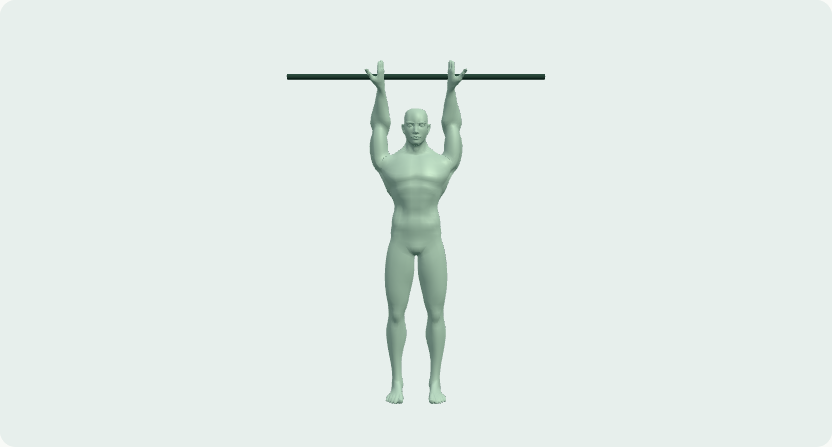
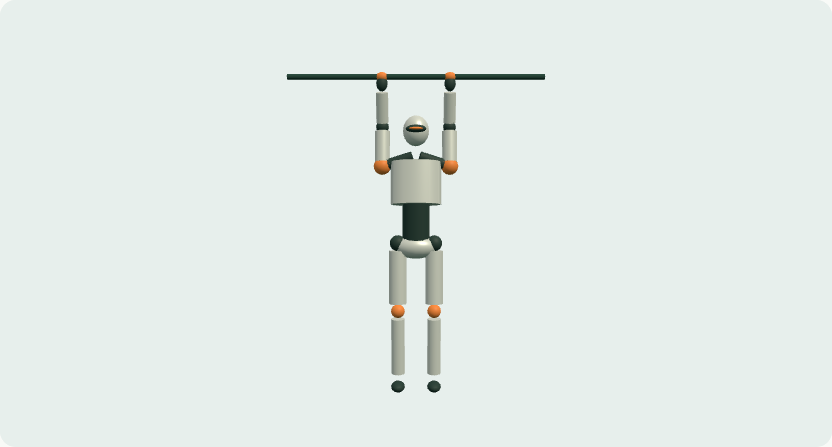
Show a robot-style exercise mannequin

Changed region(s): [[0.4375, 0.1454, 0.5625, 0.9016]]

diff --git a/web/src/robot.ts b/web/src/robot.ts
@@ -1,0 +1,73 @@
+import * as THREE from 'three';
+
+export function createRobot(rig: THREE.Object3D, scene: THREE.Scene) {
+  const robot = new THREE.Group();
+  scene.add(robot);
+  const shell = new THREE.MeshStandardMaterial({ color: '#dce1d9', roughness: 0.36, metalness: 0.3 });
+  const joint = new THREE.MeshStandardMaterial({ color: '#253b35', roughness: 0.52 });
+  const accent = new THREE.MeshStandardMaterial({ color: '#e27e38', roughness: 0.45 });
+  const sphere = new THREE.SphereGeometry(1, 16, 12);
+  const bar = new THREE.CylinderGeometry(1, 1, 1, 12);
+  const updates: (() => void)[] = [];
+  const up = new THREE.Vector3(0, 1, 0);
+  const from = new THREE.Vector3();
+  const to = new THREE.Vector3();
+
+  function bone(name: string) {
+    const node = rig.getObjectByName(name);
+    if (!node) throw new Error(`Missing mannequin bone: ${name}`);
+    return node;
+  }
+
+  function ball(name: string, radii: [number, number, number], material = joint, y = 0, z = 0) {
+    const node = bone(name);
+    const mesh = new THREE.Mesh(sphere, material);
+    mesh.scale.set(...radii);
+    robot.add(mesh);
+    updates.push(() => {
+      node.getWorldPosition(mesh.position);
+      mesh.position.y += y;
+      mesh.position.z += z;
+    });
+  }
+
+  function link(start: string, end: string, width: number, depth = width, material = shell) {
+    const a = bone(start);
+    const b = bone(end);
+    const mesh = new THREE.Mesh(bar, material);
+    robot.add(mesh);
+    updates.push(() => {
+      a.getWorldPosition(from);
+      b.getWorldPosition(to);
+      mesh.position.copy(from).lerp(to, 0.5);
+      to.sub(from);
+      mesh.scale.set(width, to.length() * 0.78, depth);
+      mesh.quaternion.setFromUnitVectors(up, to.normalize());
+    });
+  }
+
+  link('pelvis', 'spine_03', 0.084, 0.07, joint);
+  ball('pelvis', [0.133, 0.075, 0.091], shell);
+  link('spine_02', 'neck_01', 0.158, 0.089);
+  ball('Head', [0.081, 0.095, 0.078], shell, 0.073);
+  ball('Head', [0.063, 0.026, 0.039], joint, 0.081, 0.057);
+  ball('Head', [0.044, 0.011, 0.023], accent, 0.081, 0.079);
+
+  for (const side of ['l', 'r']) {
+    const name = (part: string) => `${part}_${side}`;
+    link('neck_01', name('upperarm'), 0.035, 0.035, joint);
+    link(name('upperarm'), name('lowerarm'), 0.047);
+    link(name('lowerarm'), name('hand'), 0.038);
+    link(name('thigh'), name('calf'), 0.055);
+    link(name('calf'), name('foot'), 0.042);
+    ball(name('upperarm'), [0.054, 0.054, 0.054], accent);
+    ball(name('lowerarm'), [0.04, 0.04, 0.04]);
+    ball(name('thigh'), [0.05, 0.05, 0.05]);
+    ball(name('calf'), [0.043, 0.043, 0.043], accent);
+    ball(name('foot'), [0.043, 0.033, 0.074], joint, -0.027, 0.04);
+    ball(name('hand'), [0.035, 0.049, 0.033], joint, 0.029);
+    ball(name('hand'), [0.037, 0.031, 0.032], accent, 0.069);
+  }
+
+  return () => updates.forEach(update => update());
+}

diff --git a/web/src/main.tsx b/web/src/main.tsx
@@ -5,6 +5,7 @@ import * as THREE from 'three';
 import { GLTFLoader } from 'three/addons/loaders/GLTFLoader.js';
 import { OrbitControls } from 'three/addons/controls/OrbitControls.js';
 import './style.css';
+import { createRobot } from './robot';
 
 type Viewer = { view: (side: boolean) => void; replay: () => void };
 
@@ -57,6 +58,7 @@ function App() {
 
     let disposed = false;
     let mixer: THREE.AnimationMixer | undefined;
+    let updateRobot: (() => void) | undefined;
     let previous = performance.now();
     const fail = () => { if (!disposed) setStatus('failed'); };
     renderer.domElement.addEventListener('webglcontextlost', fail);
@@ -65,7 +67,9 @@ function App() {
       const { barY, barZ } = userData;
       const clip = animations[0];
       if (!clip || !Number.isFinite(barY) || !Number.isFinite(barZ)) { fail(); return; }
+      model.traverse(object => { if (object instanceof THREE.Mesh) object.visible = false; });
       scene.add(model);
+      updateRobot = createRobot(model, scene);
       const bar = new THREE.Mesh(new THREE.CylinderGeometry(0.018, 0.018, 1.6, 24),
         new THREE.MeshStandardMaterial({ color: '#284c42', metalness: 0.25 }));
       bar.rotation.z = Math.PI / 2;
@@ -79,6 +83,7 @@ function App() {
     }, undefined, fail);
     renderer.setAnimationLoop(now => {
       if (playing.current) mixer?.update(Math.min((now - previous) / 1000, 0.05));
+      updateRobot?.();
       previous = now;
       renderer.render(scene, camera);
     });
